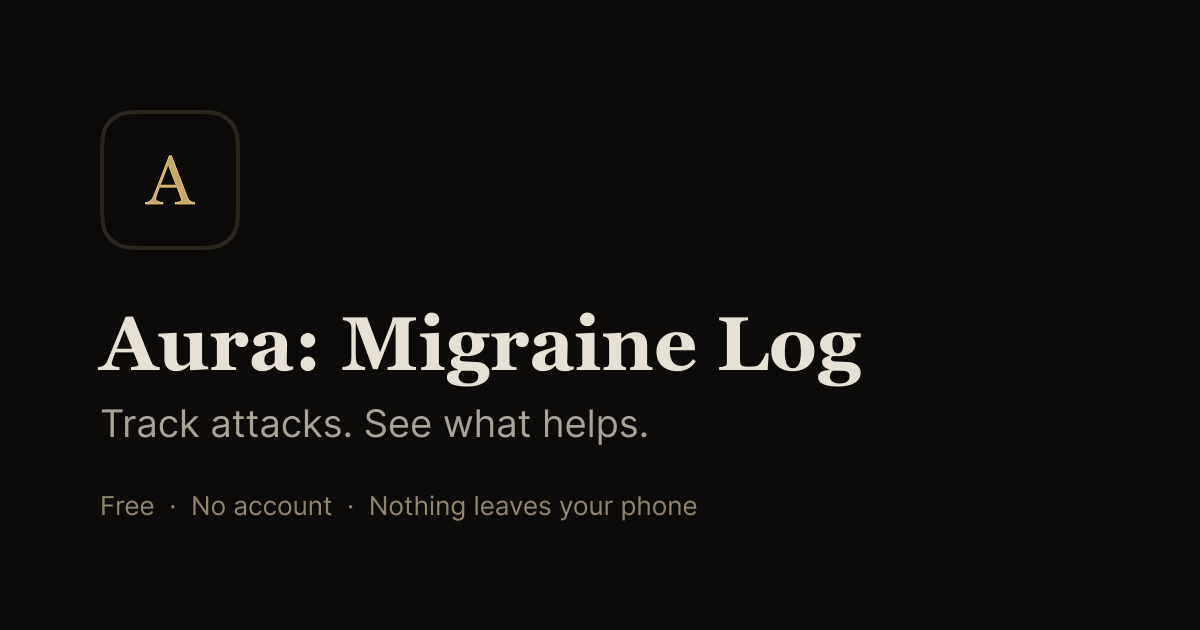
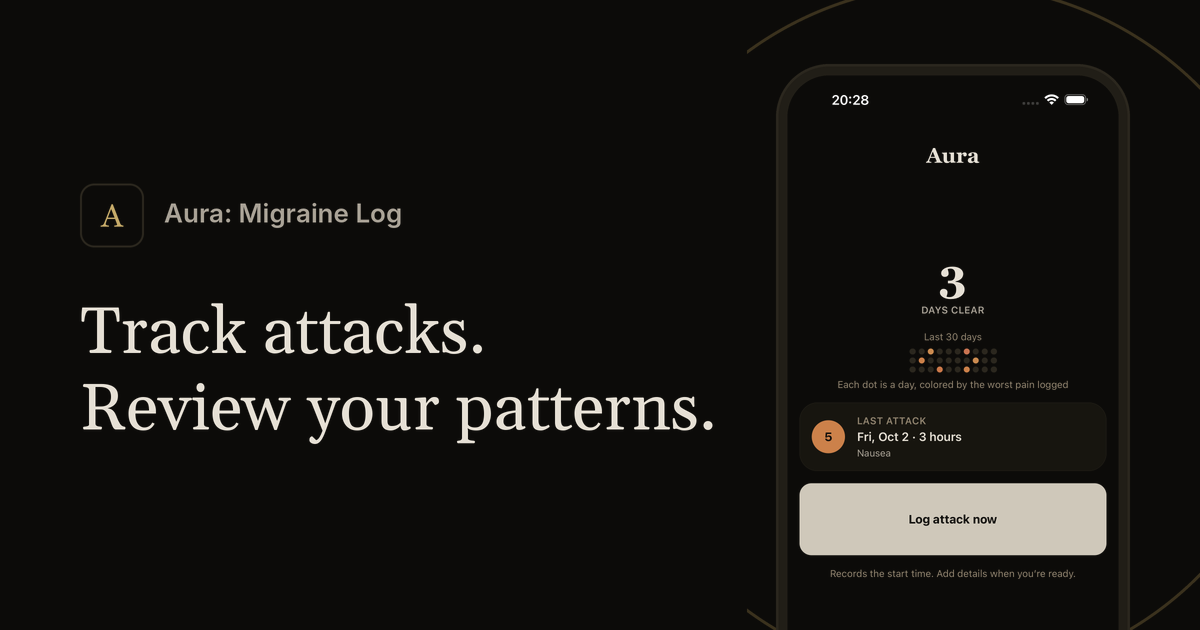
Refresh social preview image and description
New 1200x630 OG image with the app icon, "Track attacks. Review your
patterns." and the Home screen. Drop the outdated "Free" and "Nothing
leaves your phone" claims from the image and the og:description, and
add ?v=2 to the og:image URL so link previews refetch it.

Claude-Session: https://claude.ai/code/session_01QS7aFBNXMGHdbHGdHPTFNG

diff --git a/index.html b/index.html
@@ -6,8 +6,8 @@
   <title>Aura: Migraine Log</title>
   <meta name="description" content="A calm, private migraine log that follows up after medication so you can see what helps.">
   <meta property="og:title" content="Aura: Migraine Log">
-  <meta property="og:description" content="Track attacks. See what helps. Free, private, and built to use during a migraine.">
-  <meta property="og:image" content="https://auramigrainelog.com/screenshots/og-image.png">
+  <meta property="og:description" content="Track attacks and review your patterns. A calm migraine log built to use during an attack. No account needed.">
+  <meta property="og:image" content="https://auramigrainelog.com/screenshots/og-image.png?v=2">
   <meta property="og:url" content="https://auramigrainelog.com/">
   <meta property="og:type" content="website">
   <!-- Social preview image: /screenshots/og-image.png, 1200 x 630 px. -->
